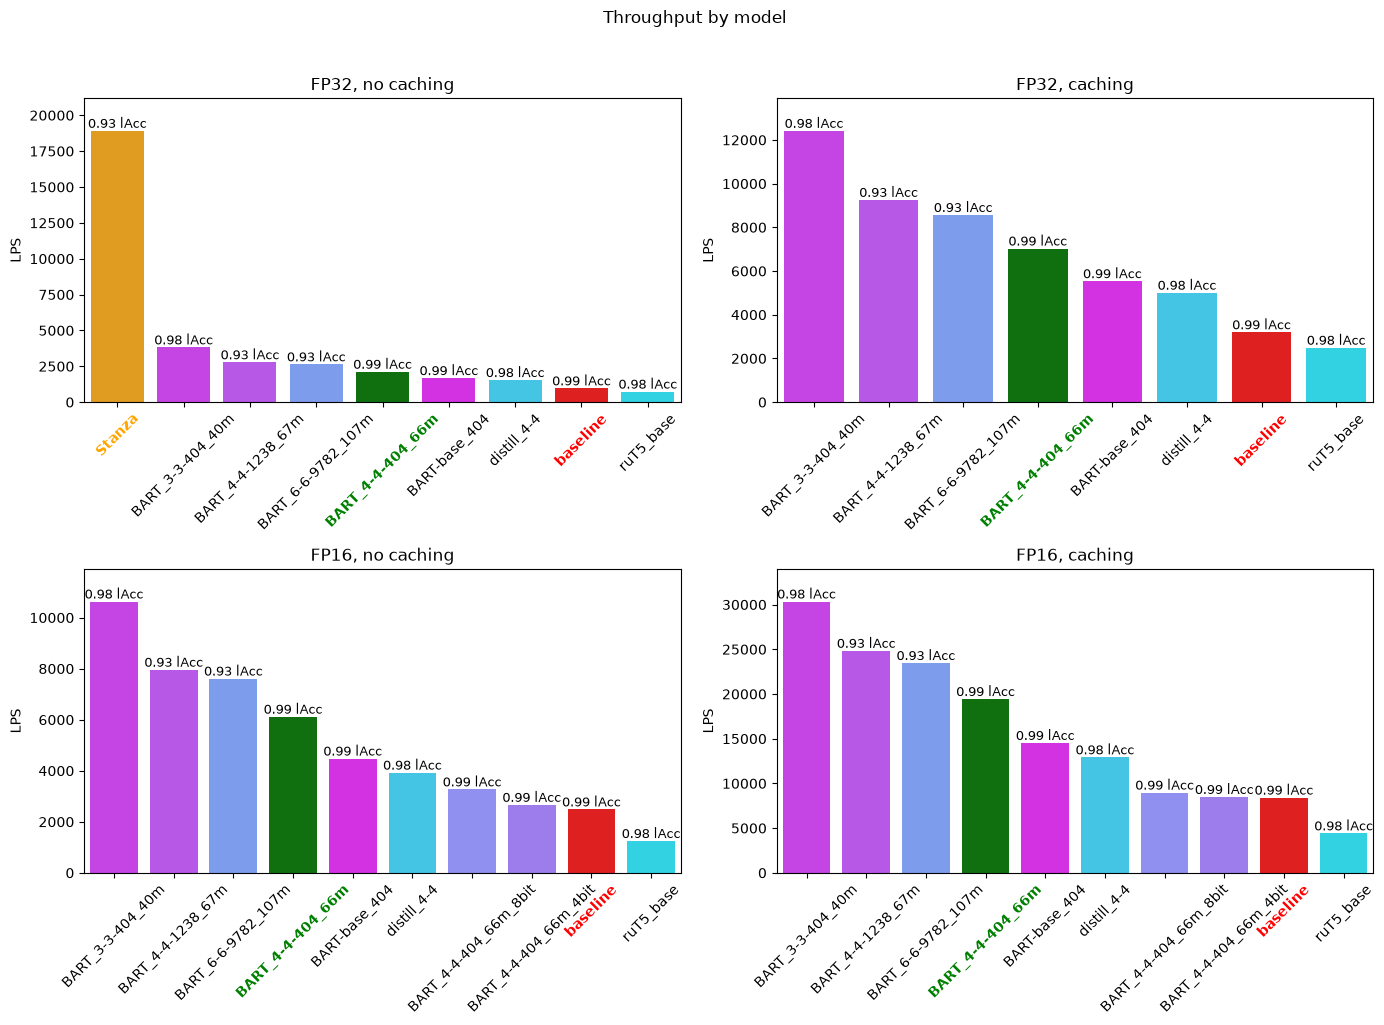
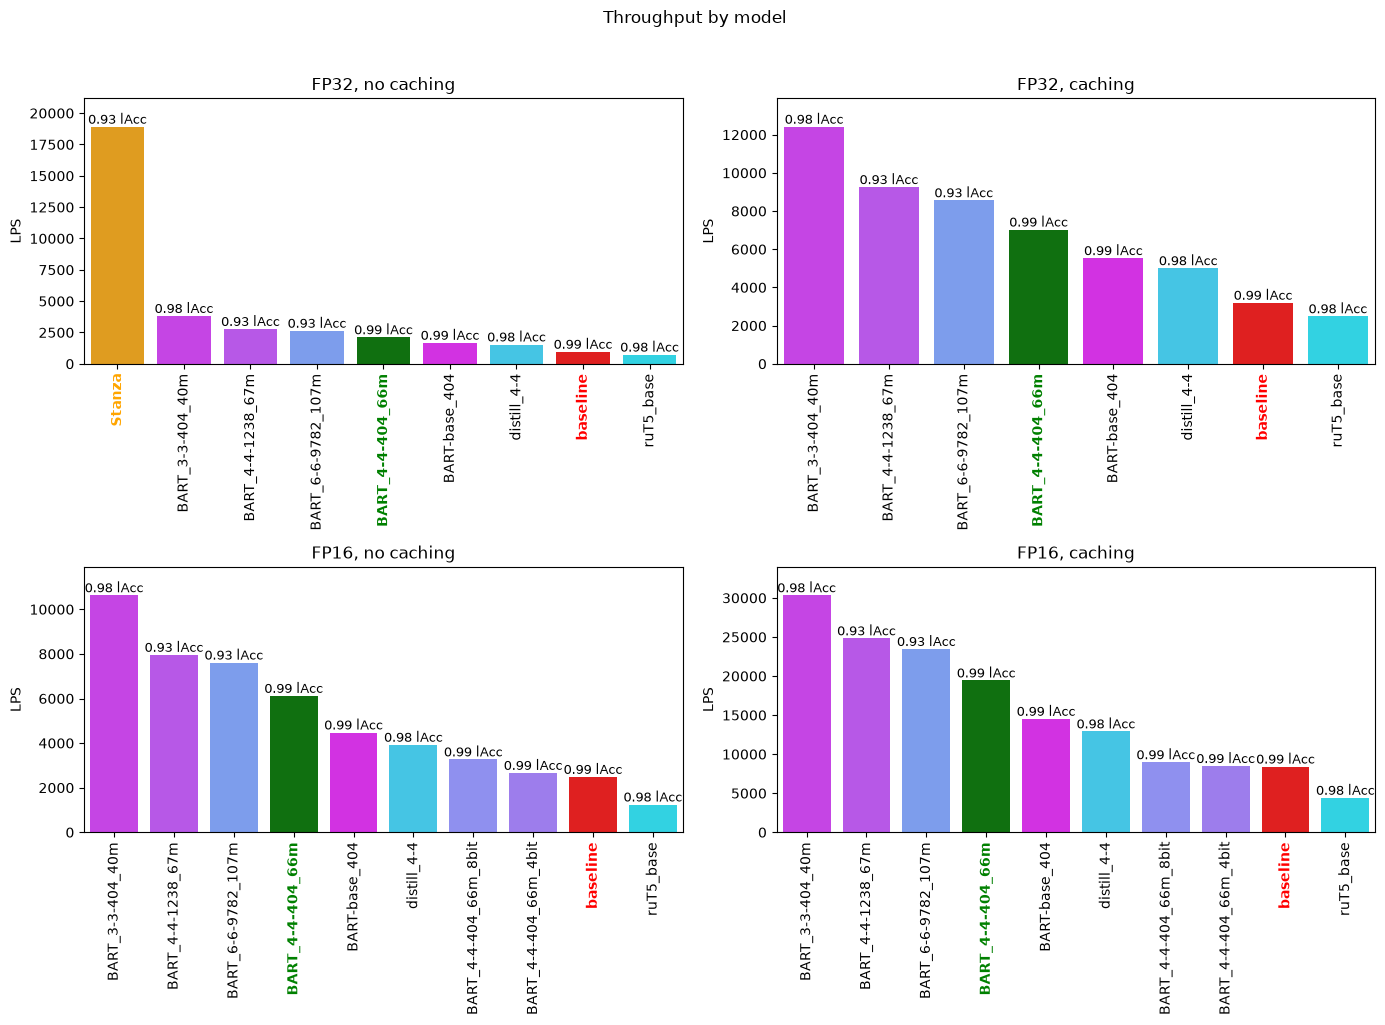
change x-axis ticks rotation to 90 deg

diff --git a/src/visuals.py b/src/visuals.py
@@ -97,7 +97,7 @@ def plot_throughput(
         ax.set_title(title)
         ax.set_xlabel("")
         ax.set_ylabel(metric)
-        ax.tick_params(axis="x", rotation=45)
+        ax.tick_params(axis="x", rotation=90)
         ax.margins(y=0.12)
 
     fig.suptitle("Throughput by model", y=1.02)
